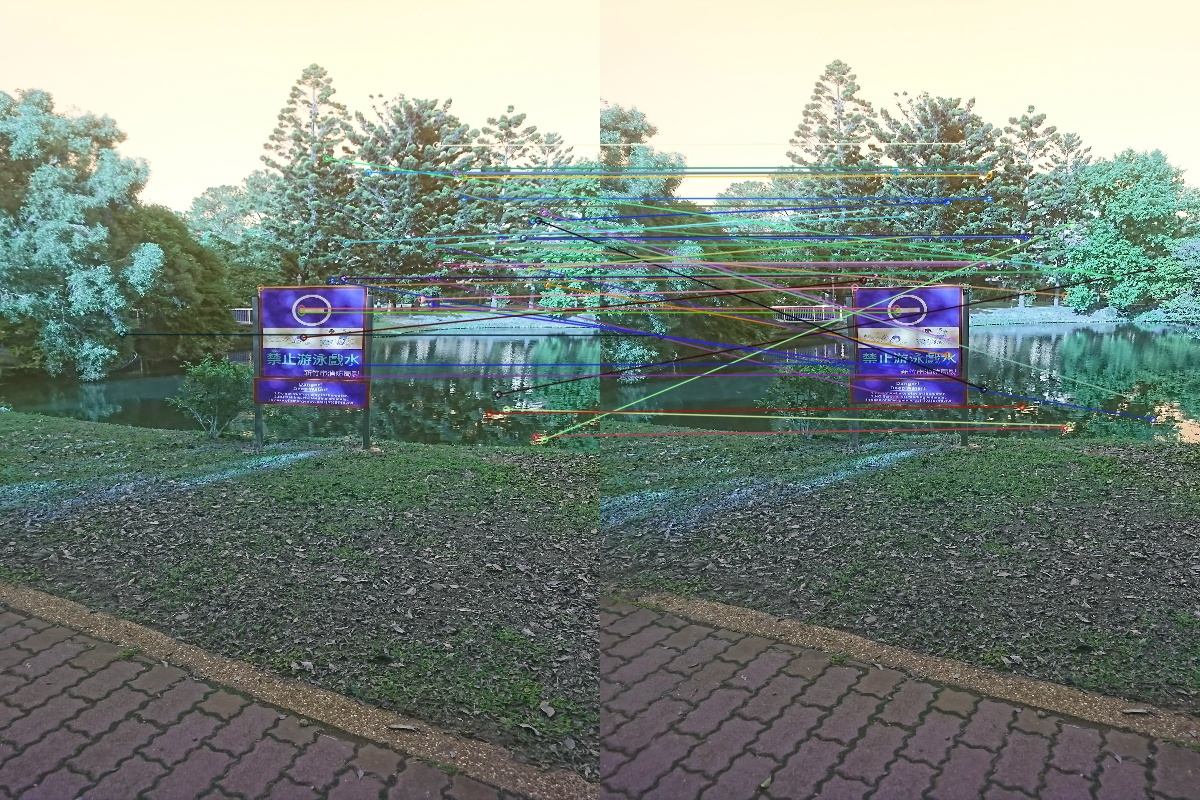
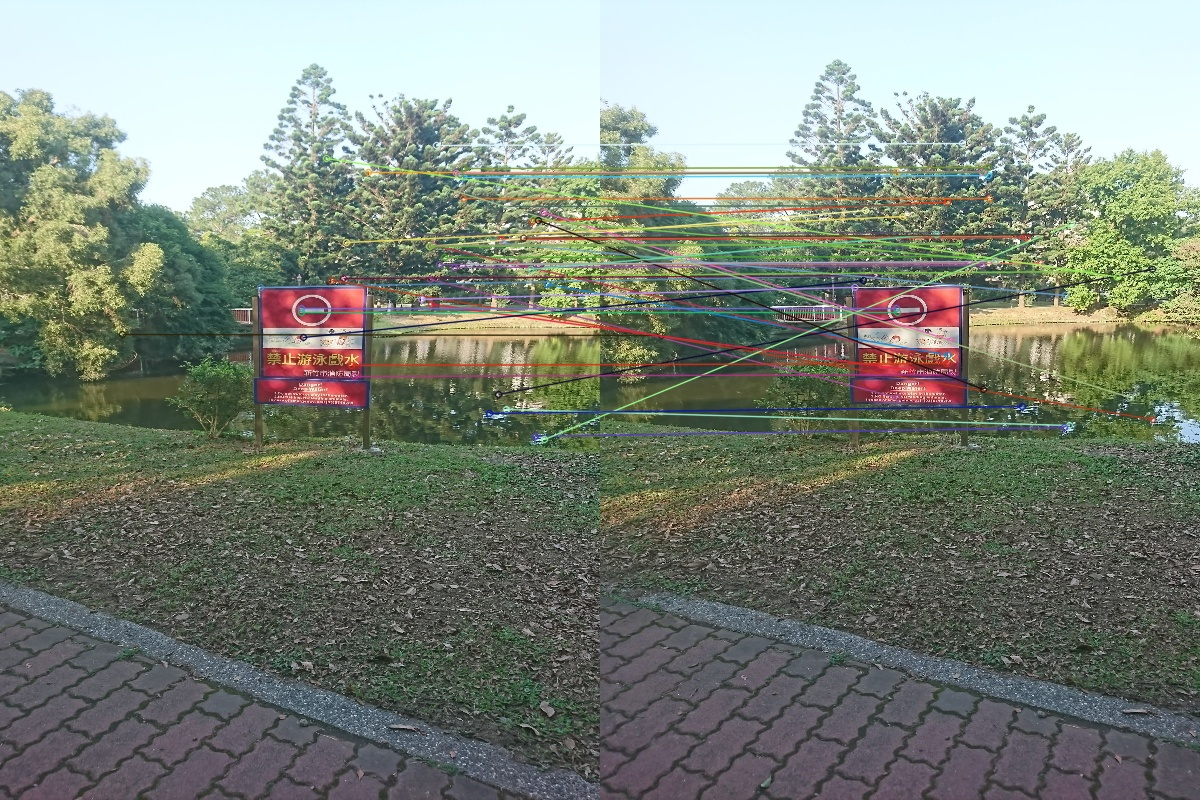
renew_img

diff --git a/hw5.py b/hw5.py
@@ -46,7 +46,7 @@ def getHomography(lst):
         kp1 = np.array([x.pt for x in kp1], np.float32)
         kp2 = np.array([x.pt for x in kp2], np.float32)
         img3 = cv2.drawMatches(lst[i], kp1_cc, lst[center_idx],kp2_cc, matches[:50], None, flags=2)
-        cv2.imwrite('matching%d.jpg'%(i+1), img3)
+        cv2.imwrite('./matching_fig/matching%d.jpg'%(i+1), img3[:, :, ::-1])
         #plt.imshow(img3)
         #plt.show()
         
